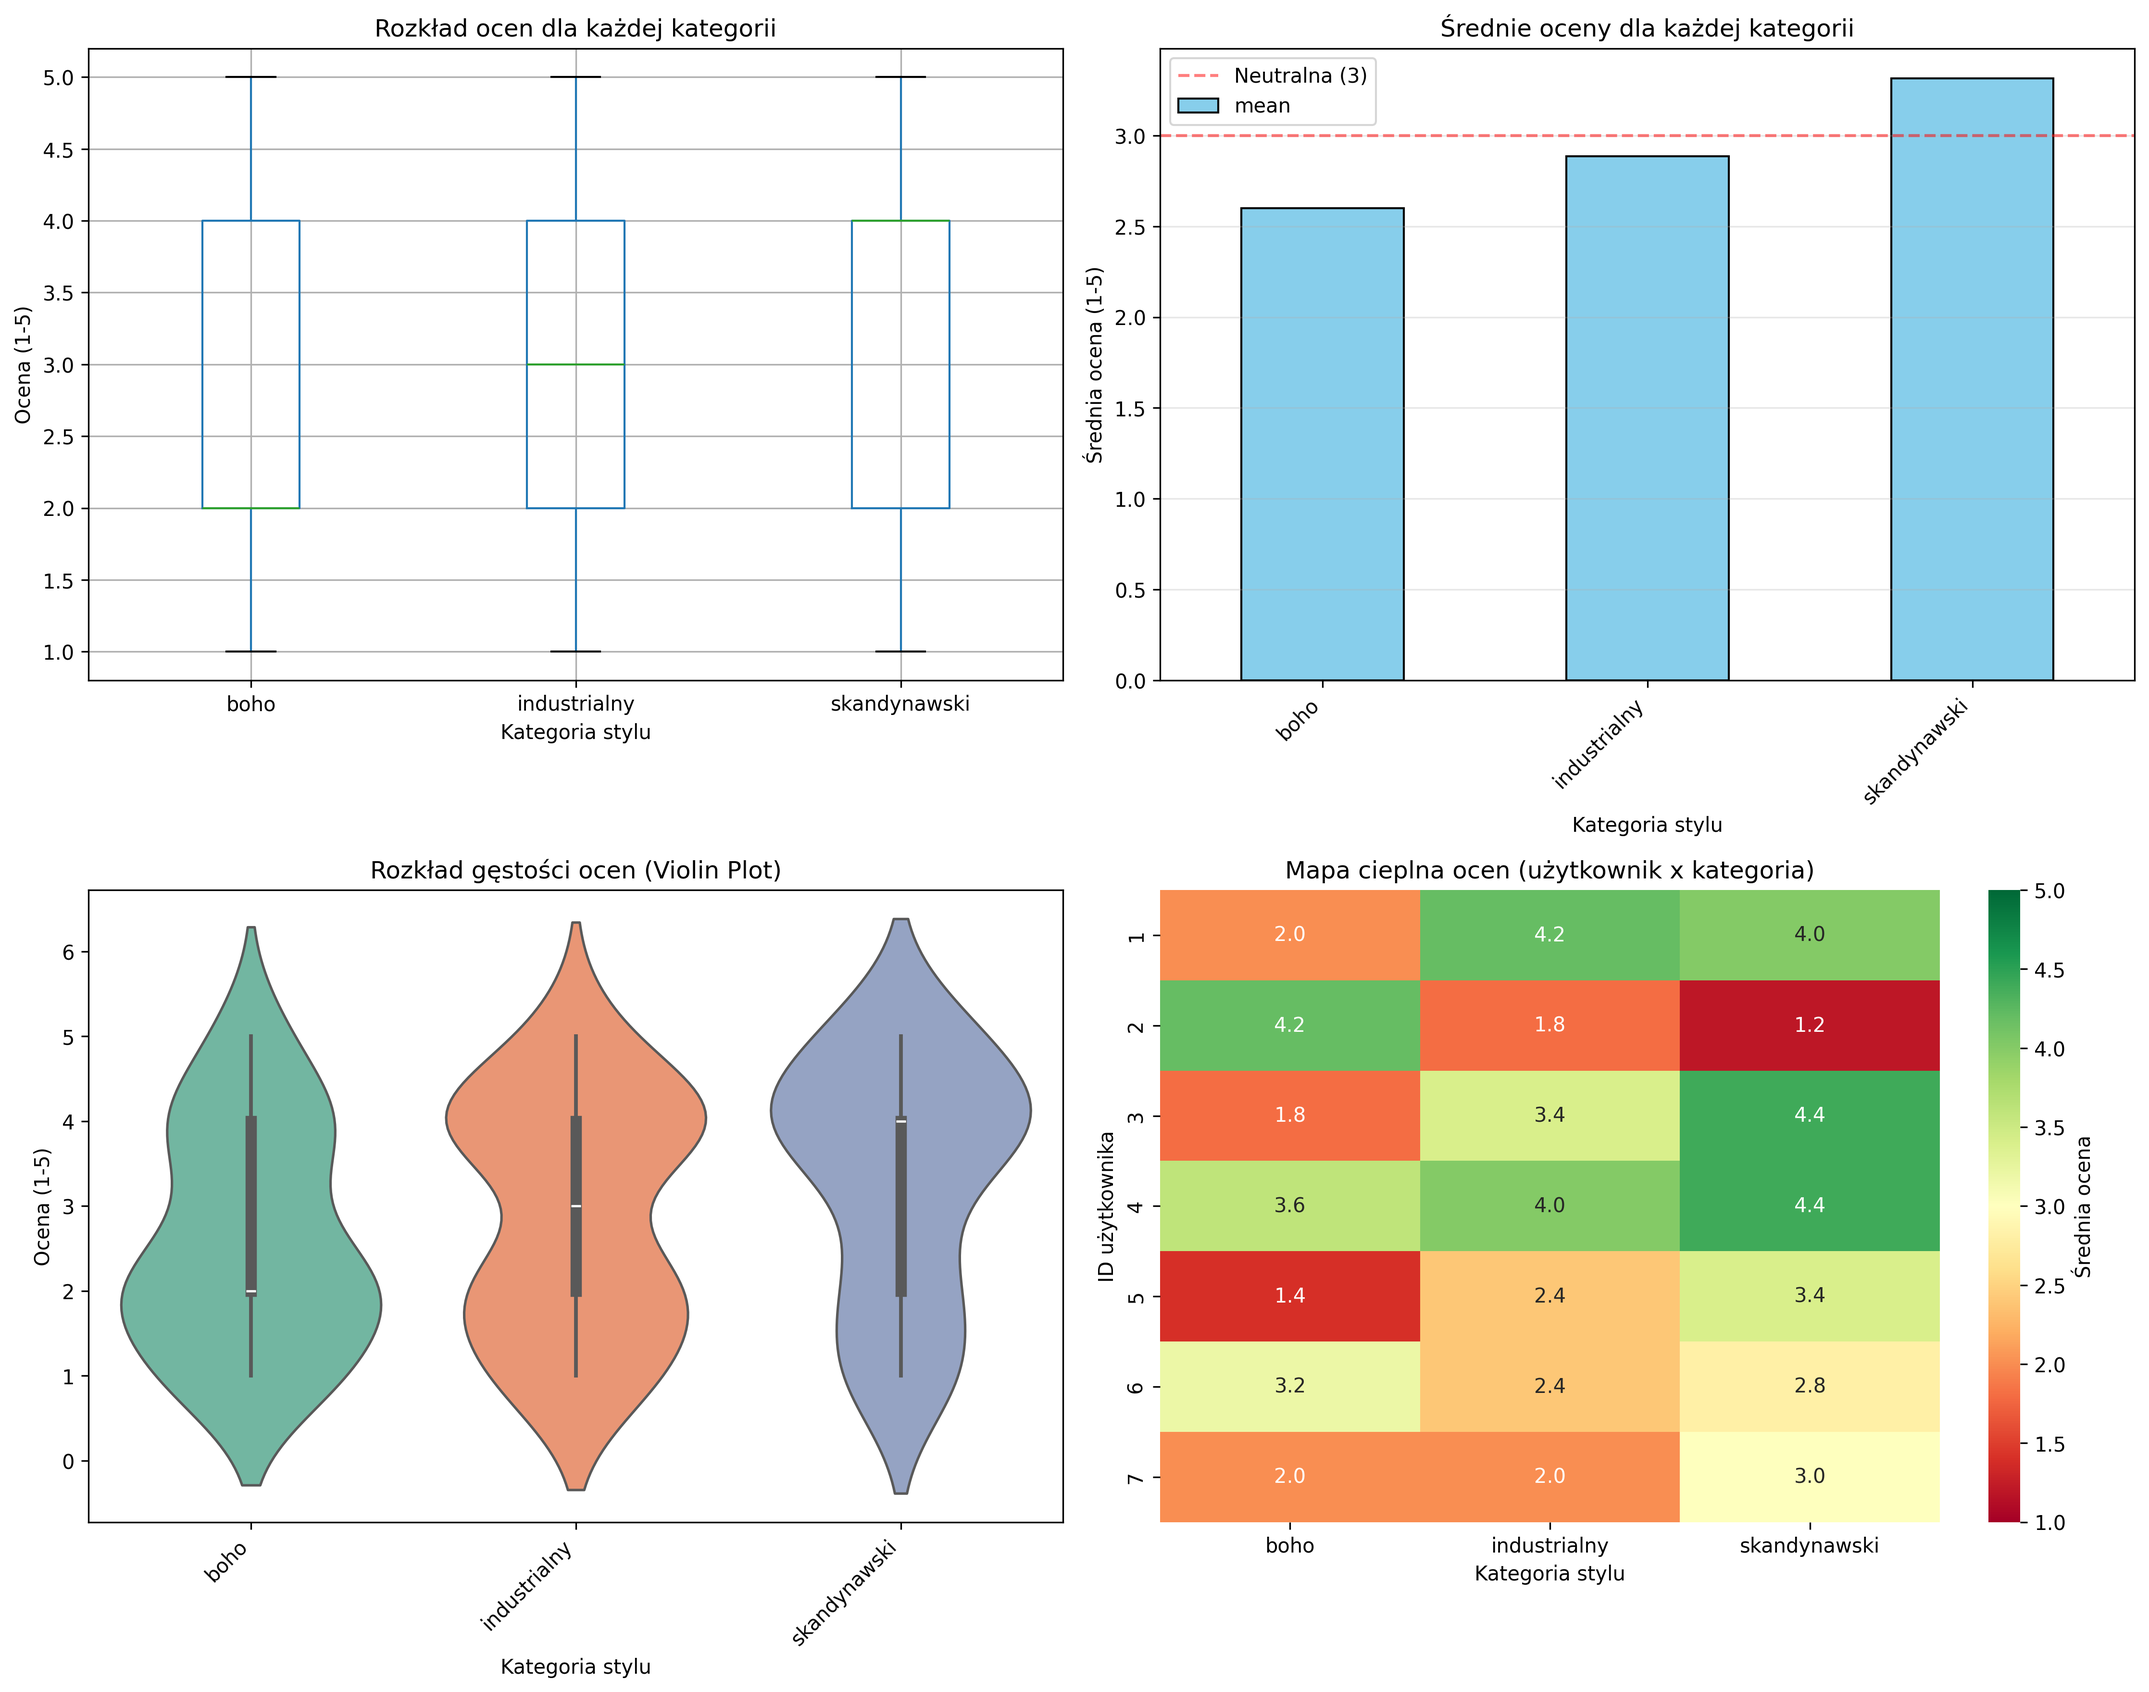
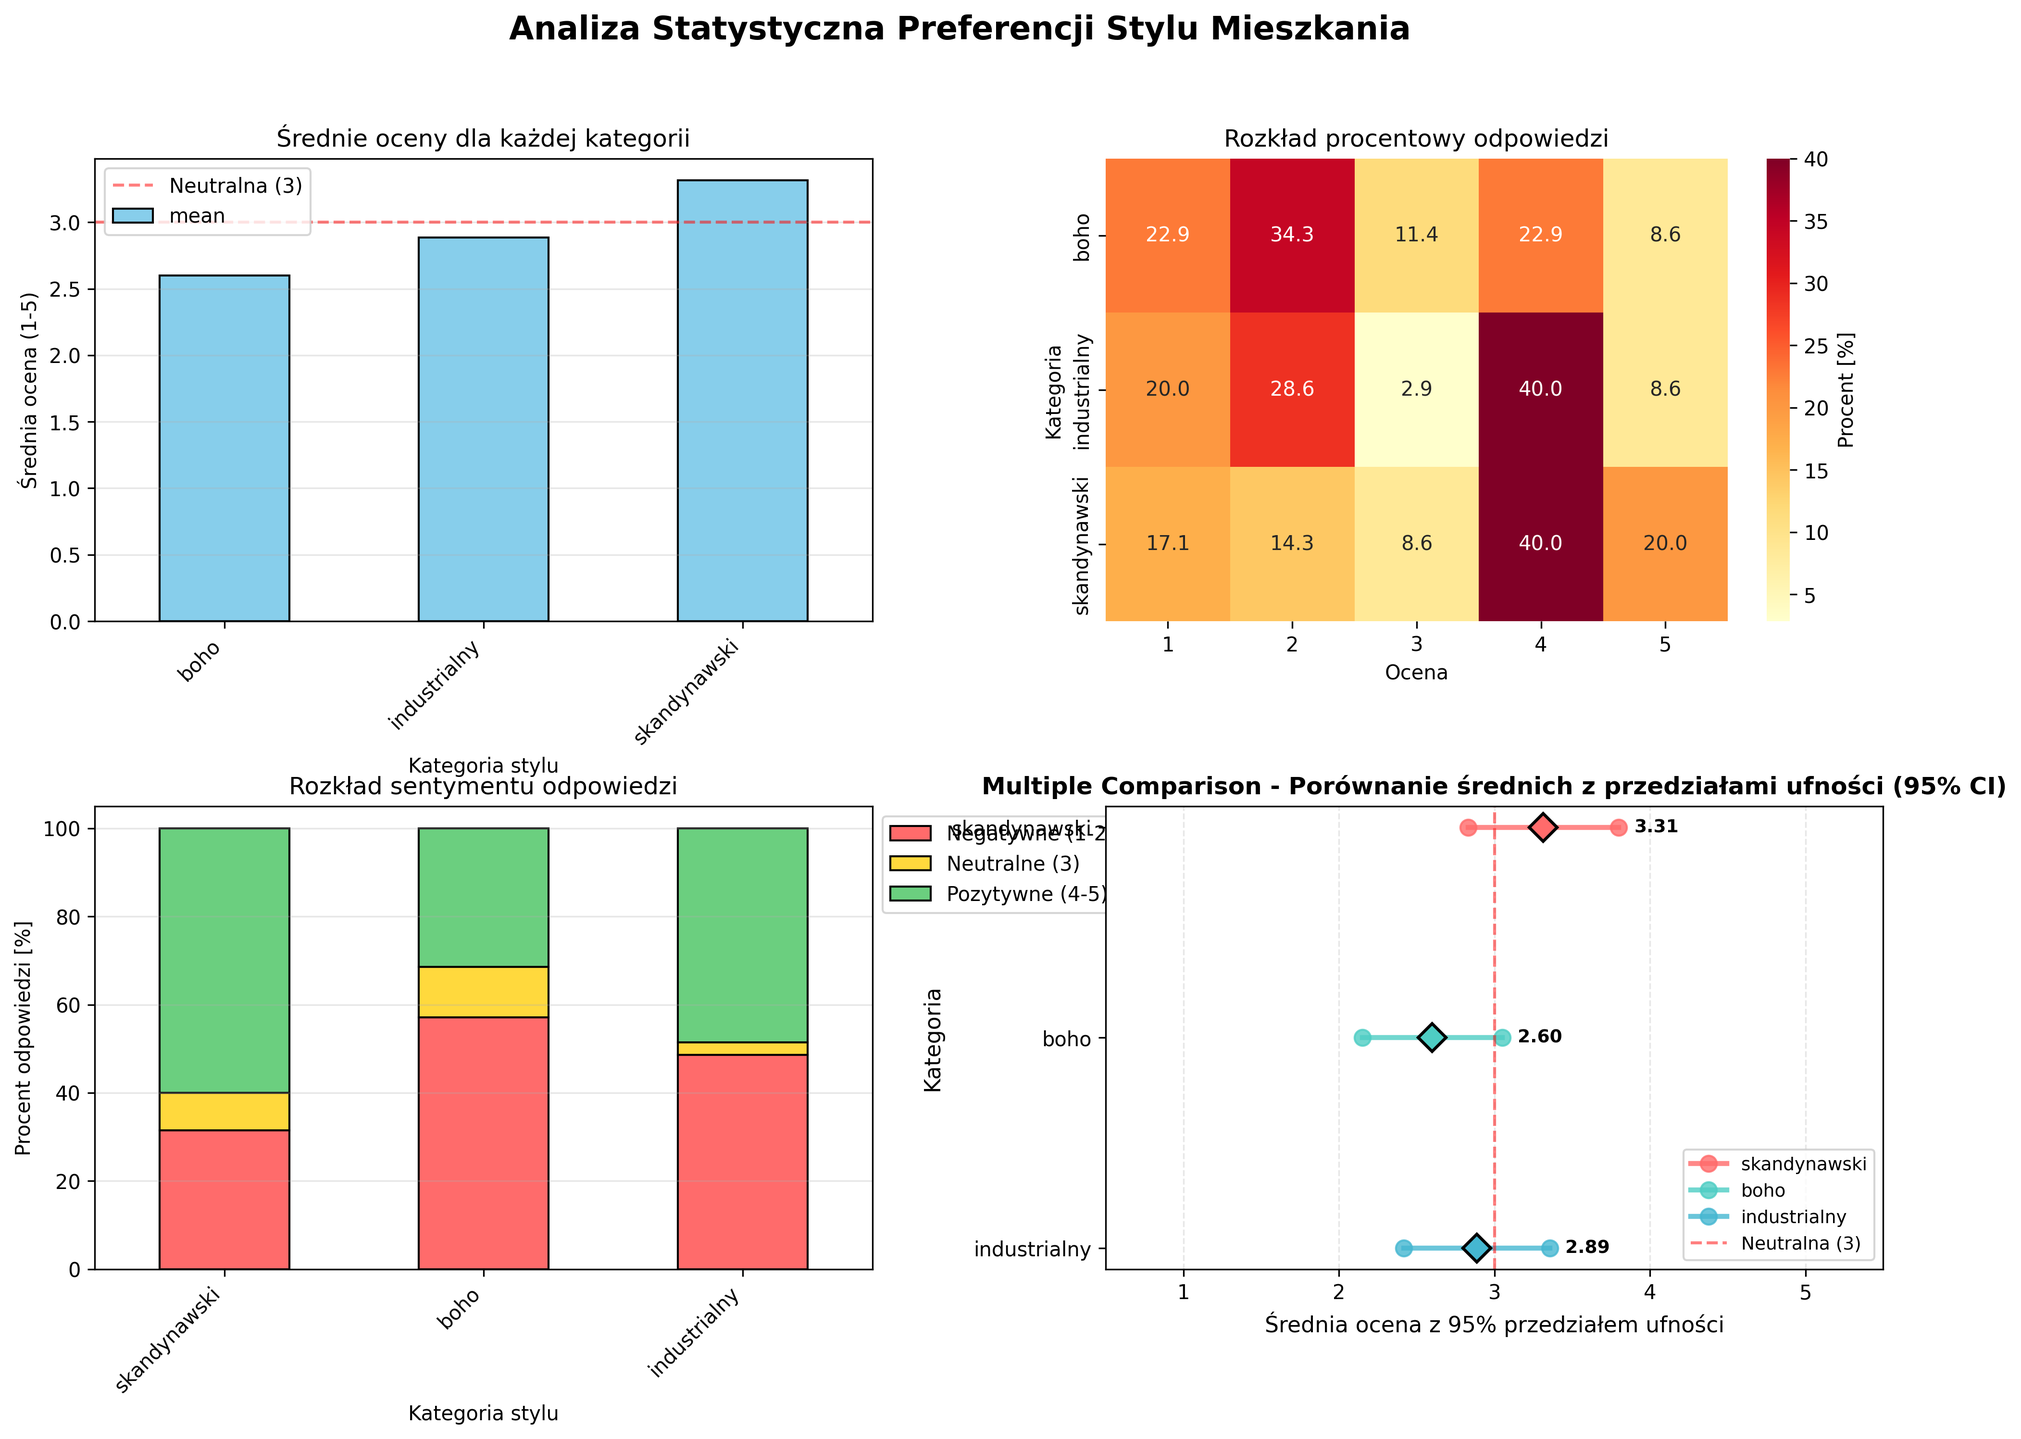
Enhance statistical analysis script with additional visualizations and confidence intervals

diff --git a/Ankieta/badanie.py b/Ankieta/badanie.py
@@ -1,4 +1,5 @@
 import pandas as pd
+import numpy as np
 import matplotlib.pyplot as plt
 import seaborn as sns
 from scipy.stats import shapiro, kruskal, f_oneway
@@ -87,46 +88,107 @@ print("\n" + "=" * 80)
 print("TWORZENIE WYKRESÓW")
 print("=" * 80)
 
-# Utwórz figurę z kilkoma wykresami
-fig, axes = plt.subplots(2, 2, figsize=(15, 12))
+# Utwórz figurę z czterema wykresami
+fig = plt.figure(figsize=(16, 10))
 fig.suptitle('Analiza Statystyczna Preferencji Stylu Mieszkania', fontsize=16, fontweight='bold')
+gs = fig.add_gridspec(2, 2, hspace=0.4, wspace=0.3)
 
-# Wykres 1: Boxplot dla każdej kategorii
-ax1 = axes[0, 0]
-df.boxplot(column='wartość', by='kategoria', ax=ax1)
-ax1.set_title('Rozkład ocen dla każdej kategorii')
+# Wykres 1: Wykres słupkowy średnich
+ax1 = fig.add_subplot(gs[0, 0])
+kategorie_stats['mean'].plot(kind='bar', ax=ax1, color='skyblue', edgecolor='black')
+ax1.set_title('Średnie oceny dla każdej kategorii')
 ax1.set_xlabel('Kategoria stylu')
-ax1.set_ylabel('Ocena (1-5)')
-ax1.get_figure().suptitle('')  # Usuń domyślny tytuł
+ax1.set_ylabel('Średnia ocena (1-5)')
+ax1.set_xticklabels(ax1.get_xticklabels(), rotation=45, ha='right')
+ax1.axhline(y=3, color='red', linestyle='--', alpha=0.5, label='Neutralna (3)')
+ax1.legend()
+ax1.grid(axis='y', alpha=0.3)
 
-# Wykres 2: Wykres słupkowy średnich
-ax2 = axes[0, 1]
-kategorie_stats['mean'].plot(kind='bar', ax=ax2, color='skyblue', edgecolor='black')
-ax2.set_title('Średnie oceny dla każdej kategorii')
-ax2.set_xlabel('Kategoria stylu')
-ax2.set_ylabel('Średnia ocena (1-5)')
-ax2.set_xticklabels(ax2.get_xticklabels(), rotation=45, ha='right')
-ax2.axhline(y=3, color='red', linestyle='--', alpha=0.5, label='Neutralna (3)')
-ax2.legend()
-ax2.grid(axis='y', alpha=0.3)
+# Kolory dla każdej kategorii
+colors = ['#FF6B6B', '#4ECDC4', '#45B7D1']
+kategorie_lista = list(df['kategoria'].unique())
 
-# Wykres 3: Violin plot
-ax3 = axes[1, 0]
-df_sorted = df.sort_values('kategoria')
-sns.violinplot(data=df_sorted, x='kategoria', y='wartość', ax=ax3, palette='Set2')
-ax3.set_title('Rozkład gęstości ocen (Violin Plot)')
+# Wykres 2: Heatmapa - procentowy rozkład odpowiedzi
+ax2 = fig.add_subplot(gs[0, 1])
+# Utwórz macierz odpowiedzi (kategoria x ocena)
+heatmap_data = pd.crosstab(df['kategoria'], df['wartość'], normalize='index') * 100
+sns.heatmap(heatmap_data, annot=True, fmt='.1f', cmap='YlOrRd', ax=ax2, cbar_kws={'label': 'Procent [%]'})
+ax2.set_title('Rozkład procentowy odpowiedzi')
+ax2.set_xlabel('Ocena')
+ax2.set_ylabel('Kategoria')
+
+# Wykres 3: Wykres skumulowany pokazujący rozkład pozytywnych/negatywnych opinii
+ax3 = fig.add_subplot(gs[1, 0])
+# Oblicz procent dla każdej oceny w każdej kategorii
+sentiment_data = []
+for kategoria in kategorie_lista:
+    dane_kat = df[df['kategoria'] == kategoria]['wartość']
+    negatywne = (dane_kat <= 2).sum() / len(dane_kat) * 100
+    neutralne = (dane_kat == 3).sum() / len(dane_kat) * 100
+    pozytywne = (dane_kat >= 4).sum() / len(dane_kat) * 100
+    sentiment_data.append([negatywne, neutralne, pozytywne])
+
+sentiment_df = pd.DataFrame(sentiment_data, 
+                           columns=['Negatywne (1-2)', 'Neutralne (3)', 'Pozytywne (4-5)'],
+                           index=kategorie_lista)
+
+sentiment_df.plot(kind='bar', stacked=True, ax=ax3, 
+                 color=['#FF6B6B', '#FFD93D', '#6BCF7F'], edgecolor='black')
+ax3.set_title('Rozkład sentymentu odpowiedzi')
 ax3.set_xlabel('Kategoria stylu')
-ax3.set_ylabel('Ocena (1-5)')
+ax3.set_ylabel('Procent odpowiedzi [%]')
 ax3.set_xticklabels(ax3.get_xticklabels(), rotation=45, ha='right')
+ax3.legend(loc='upper left', bbox_to_anchor=(1, 1))
+ax3.grid(axis='y', alpha=0.3)
 
-# Wykres 4: Heatmapa średnich ocen per użytkownik
-ax4 = axes[1, 1]
-pivot_table = df.pivot_table(values='wartość', index='user', columns='kategoria', aggfunc='mean')
-sns.heatmap(pivot_table, annot=True, fmt='.1f', cmap='RdYlGn', ax=ax4, 
-            vmin=1, vmax=5, cbar_kws={'label': 'Średnia ocena'})
-ax4.set_title('Mapa cieplna ocen (użytkownik x kategoria)')
-ax4.set_xlabel('Kategoria stylu')
-ax4.set_ylabel('ID użytkownika')
+# Wykres 4: Multiple Comparison (podobny do MATLAB multcompare)
+# Pokazuje średnie z przedziałami ufności dla każdej kategorii
+ax4 = fig.add_subplot(gs[1, 1])
+
+from scipy import stats
+
+# Oblicz średnie i przedziały ufności (95%) dla każdej kategorii
+means = []
+ci_lower = []
+ci_upper = []
+categories_for_plot = []
+
+for kategoria in kategorie_lista:
+    dane = grupy[kategoria]
+    mean = np.mean(dane)
+    sem = stats.sem(dane)  # Standard Error of Mean
+    ci = stats.t.interval(0.95, len(dane)-1, loc=mean, scale=sem)
+    
+    means.append(mean)
+    ci_lower.append(ci[0])
+    ci_upper.append(ci[1])
+    categories_for_plot.append(kategoria)
+
+# Rysuj wykres z przedziałami ufności
+y_positions = np.arange(len(categories_for_plot))
+
+for i, (cat, mean, lower, upper) in enumerate(zip(categories_for_plot, means, ci_lower, ci_upper)):
+    # Rysuj przedział ufności jako linię
+    ax4.plot([lower, upper], [i, i], 'o-', linewidth=2.5, markersize=8, 
+             color=colors[i], label=cat, alpha=0.8)
+    # Rysuj średnią jako większy punkt
+    ax4.plot(mean, i, 'D', markersize=10, color=colors[i], 
+             markeredgecolor='black', markeredgewidth=1.5)
+    
+    # Dodaj wartości liczbowe
+    ax4.text(upper + 0.1, i, f'{mean:.2f}', va='center', fontsize=9, fontweight='bold')
+
+ax4.set_yticks(y_positions)
+ax4.set_yticklabels(categories_for_plot)
+ax4.set_xlabel('Średnia ocena z 95% przedziałem ufności', fontsize=11)
+ax4.set_ylabel('Kategoria', fontsize=11)
+ax4.set_title('Multiple Comparison - Porównanie średnich z przedziałami ufności (95% CI)', 
+              fontsize=12, fontweight='bold')
+ax4.grid(axis='x', alpha=0.3, linestyle='--')
+ax4.axvline(x=3, color='red', linestyle='--', alpha=0.5, linewidth=1.5, label='Neutralna (3)')
+ax4.set_xlim(0.5, 5.5)
+ax4.invert_yaxis()  # Odwróć oś Y dla lepszej czytelności
+ax4.legend(loc='lower right', fontsize=9)
 
 plt.tight_layout()
 plt.savefig('analiza_statystyczna.png', dpi=300, bbox_inches='tight')
